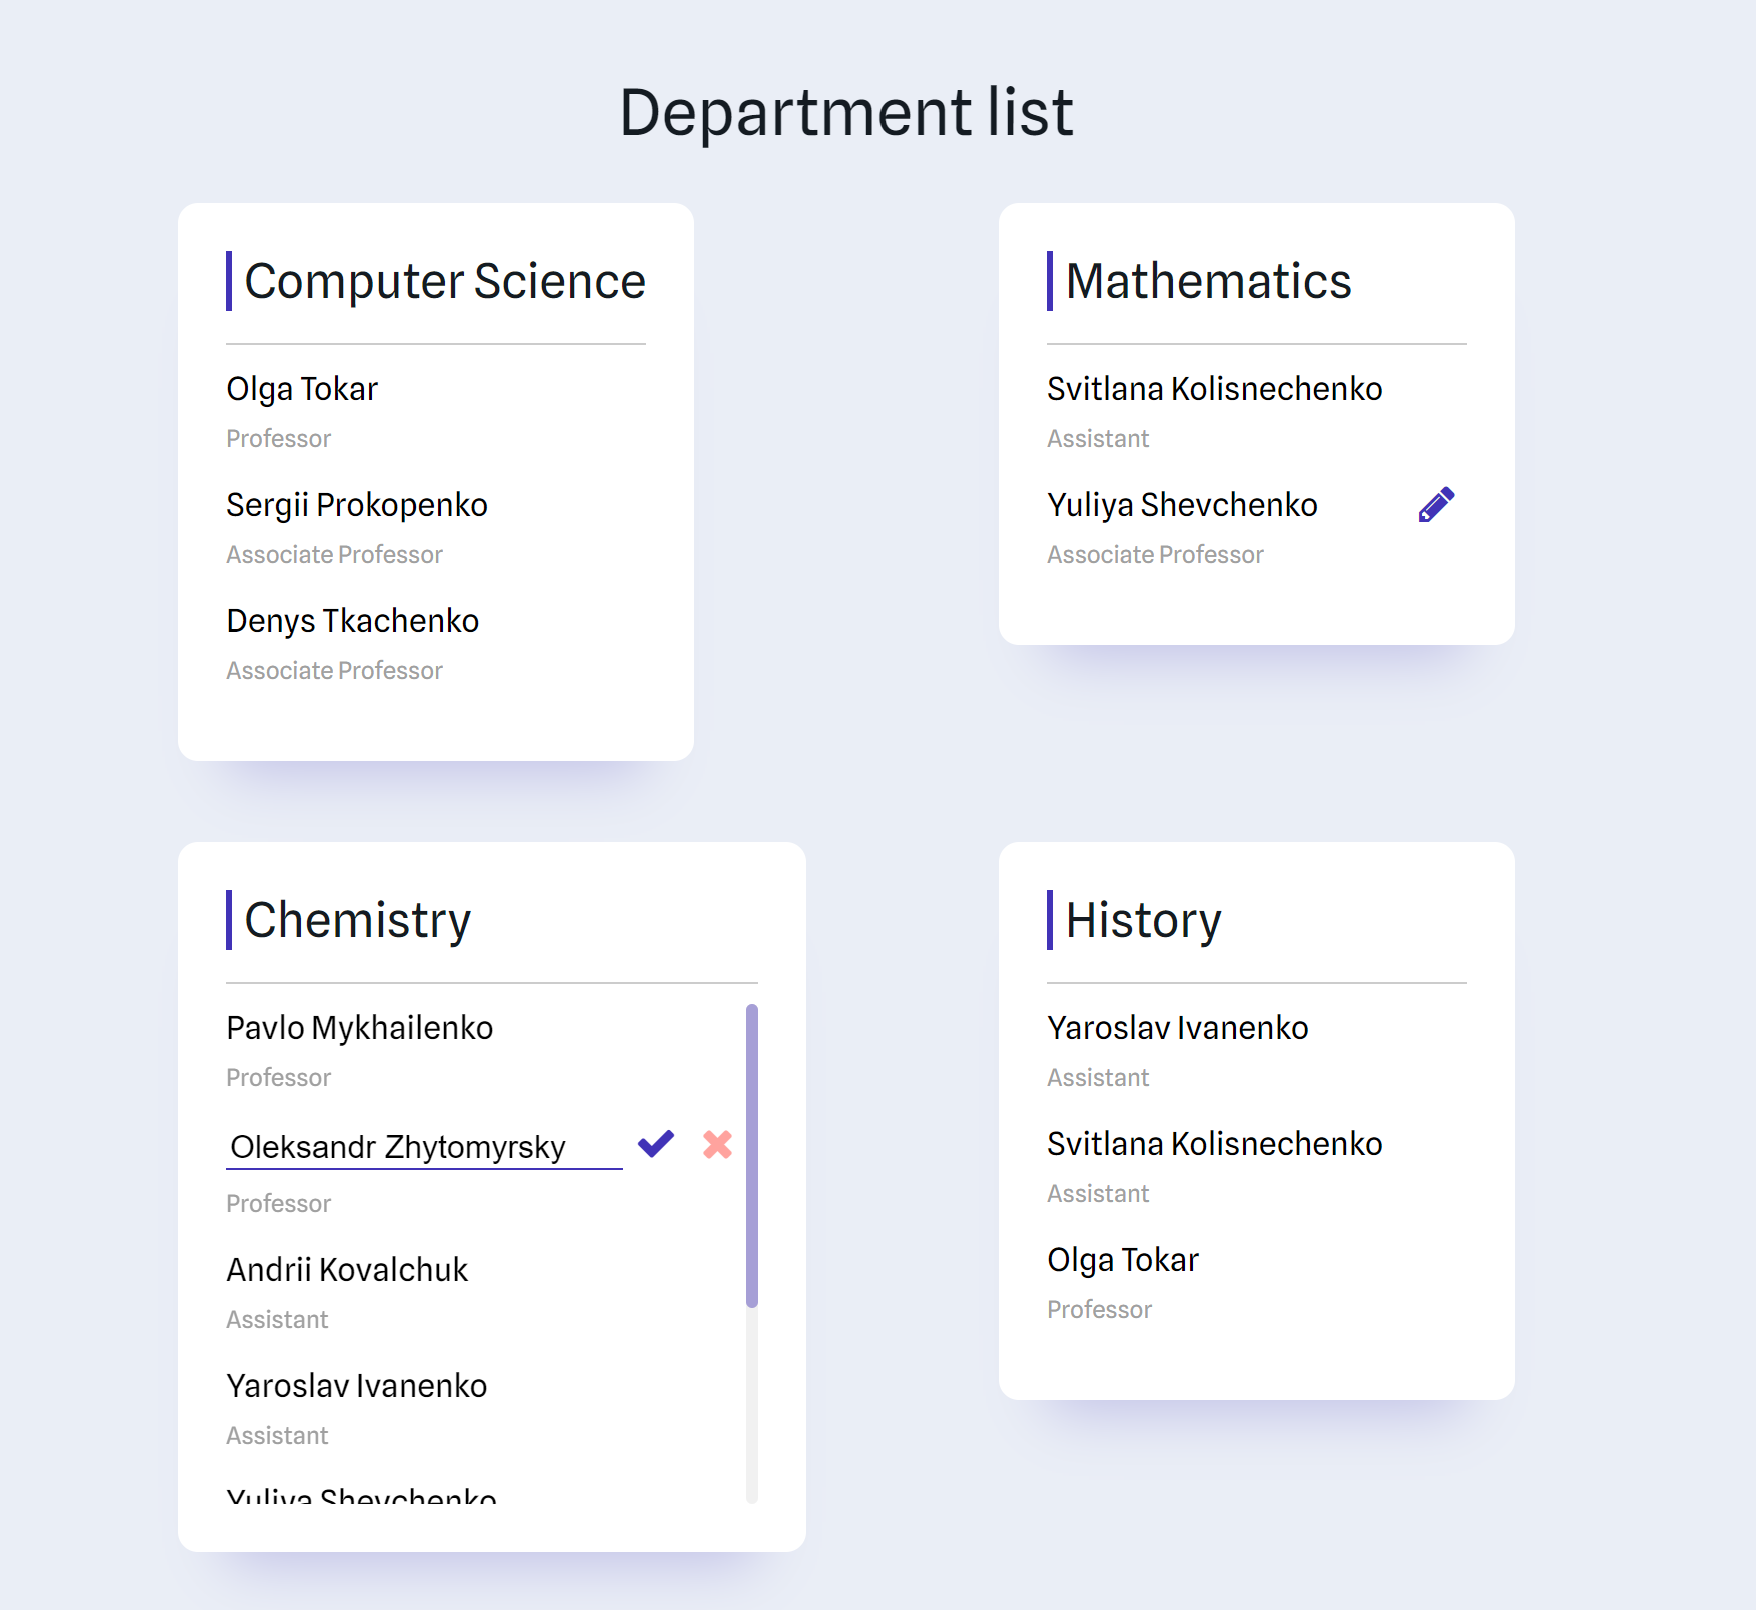
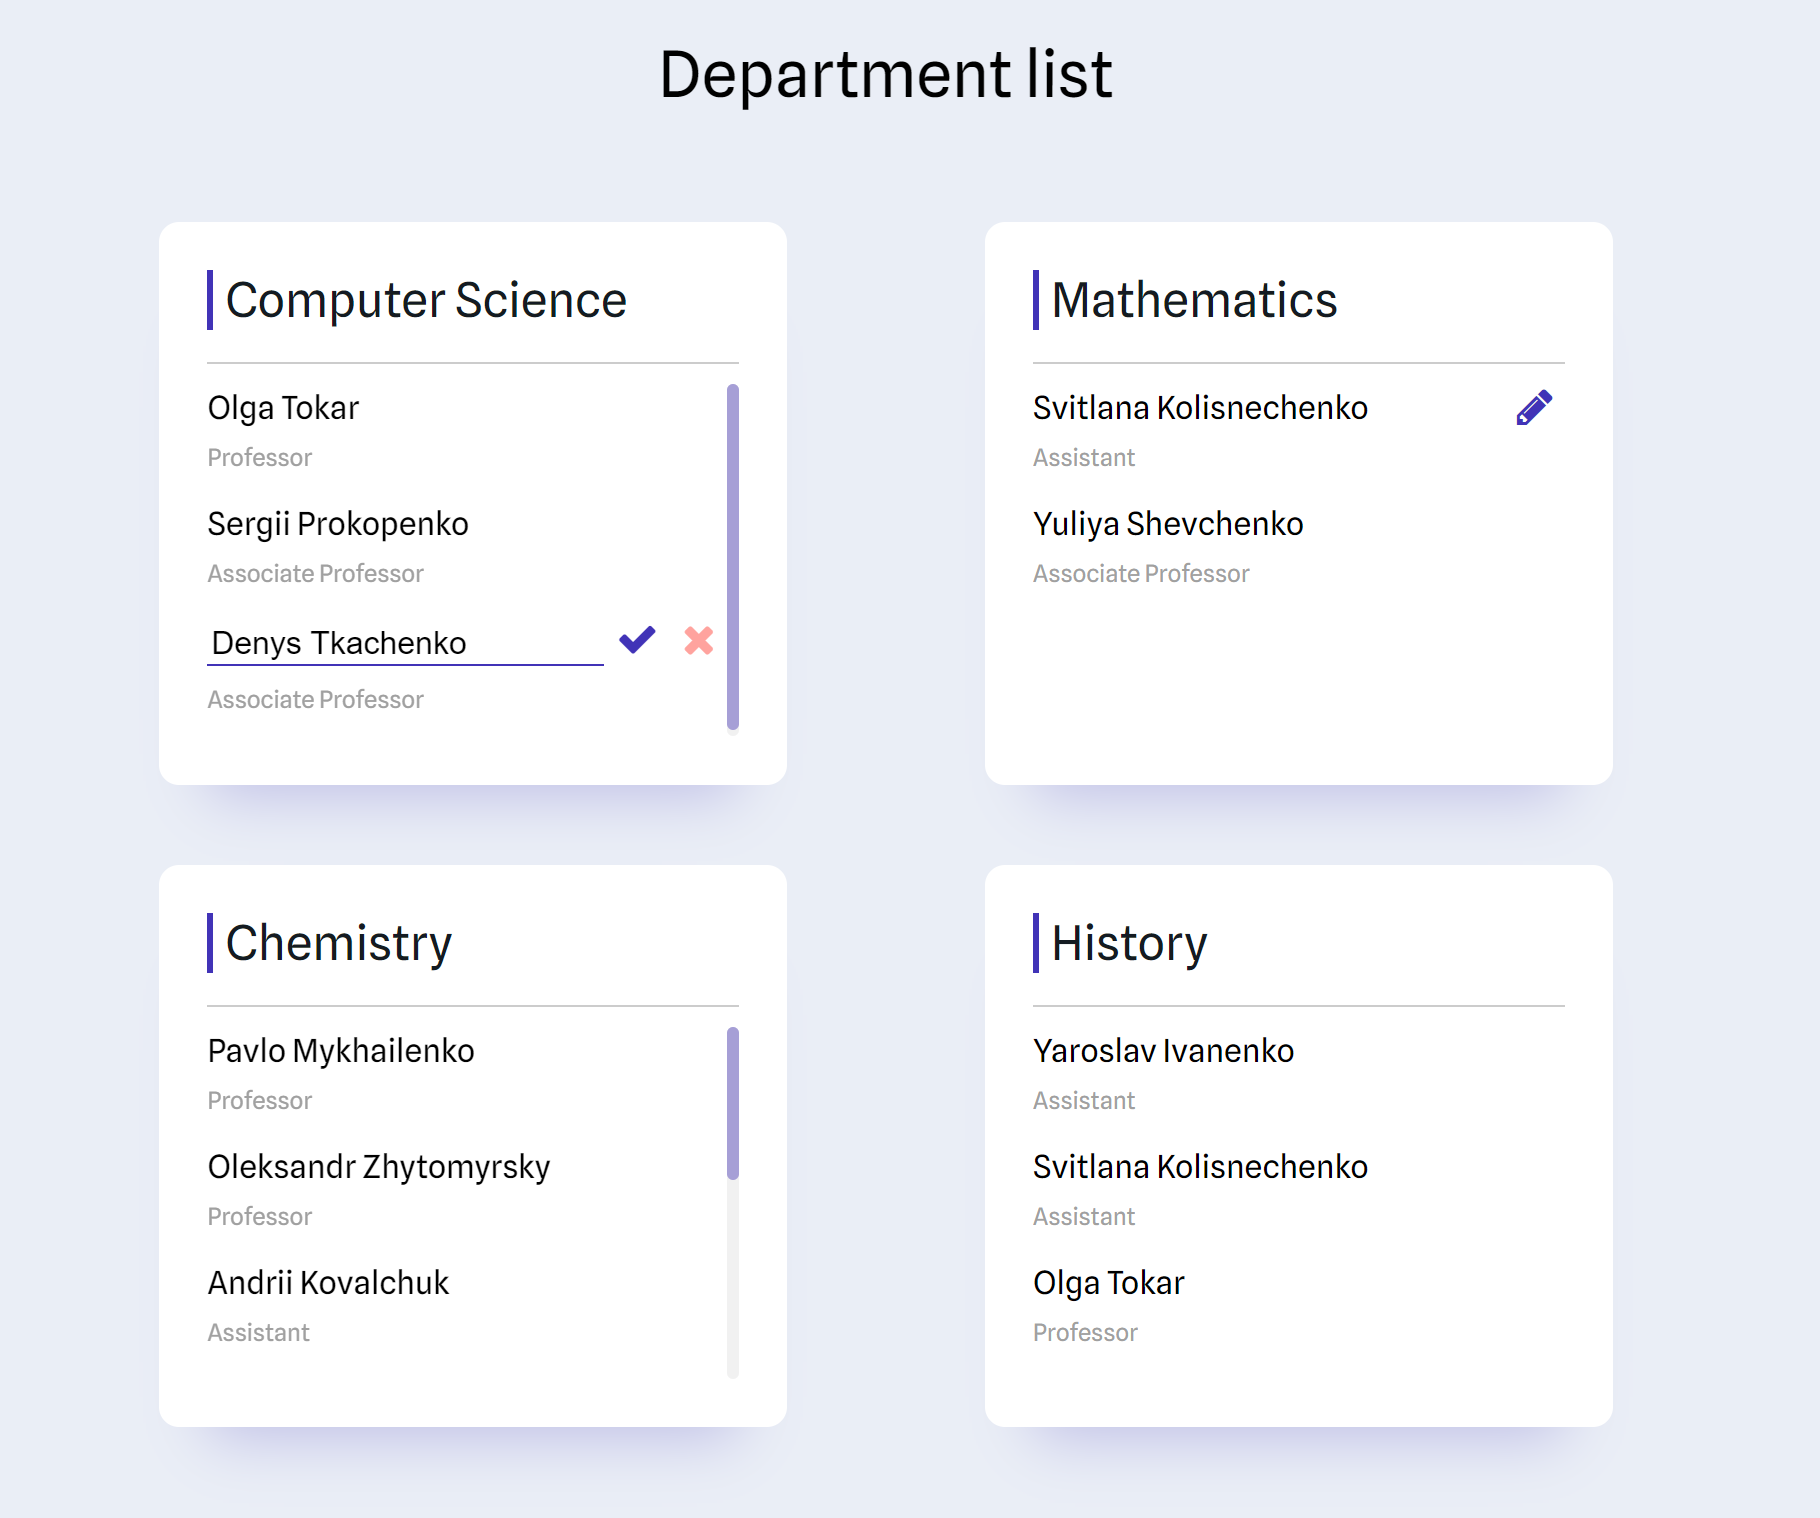
Error message.

diff --git a/client/src/components/departmentCardList/index.jsx b/client/src/components/departmentCardList/index.jsx
@@ -3,6 +3,7 @@ import './index.css'
 import axios from 'axios';
 import {DepartmentCard} from '../departmentCard';
 import {LoadingSpinner} from "../loadingSpinner";
+import {ErrorStatus} from "../errorStatus";
 
 export const DepartmentCardList = () => {
     const [departments, setDepartments] = useState([]);
@@ -20,11 +21,19 @@ export const DepartmentCardList = () => {
                 setIsLoading(true);
                 setErrorMessage(error.message);
         });
-    }, [])
+    }, []);
 
     useEffect(() => {
         fetchData();
     }, [fetchData]);
+
+    useEffect(() => {
+        const timer = setTimeout(function () {
+            setErrorMessage('');
+        }, 4000);
+
+        return () => clearTimeout(timer);
+    }, [errorMessage]);
 
     const updateLectorName = (lectorId, newName) => {
         setIsLoading(true);
@@ -41,10 +50,10 @@ export const DepartmentCardList = () => {
     return (
         <div className="department-container">
             {isLoading && <LoadingSpinner />}
-            {errorMessage && <div className="error">{errorMessage}</div>}
+            {errorMessage && <ErrorStatus message={errorMessage} />}
             {departments.map(department => (
                 <DepartmentCard
-                    key={department.id + Math.random()}
+                    key={department.id}
                     department={department}
                     updateLectorName={updateLectorName} />
             ))}

diff --git a/client/src/components/lector/index.jsx b/client/src/components/lector/index.jsx
@@ -32,7 +32,7 @@ export const Lector = ({ lector, updateLectorName }) => {
                         </>
                     ) : (
                         <div className="name">
-                            {name}
+                            {lector.name}
                             <div>
                             {onMouse ? (
                                 <button className="button" onClick={() => setIsEditing(true)}>

diff --git a/client/src/components/departmentCard/index.css b/client/src/components/departmentCard/index.css
@@ -1,7 +1,7 @@
 .department-card {
     border-radius: 10px;
     box-shadow: 0 30px 30px -25px rgba(65, 51, 183, 0.25);
-    max-width: 320px;
+    width: 266px;
     background-color: #ffff;
     padding: 1.5rem;
 }
@@ -22,7 +22,7 @@
 }
 
 .list {
-    max-height: 250px;
+    height: 176px;
     overflow: auto;
 }
 

diff --git a/client/src/components/errorStatus/index.jsx b/client/src/components/errorStatus/index.jsx
@@ -1,0 +1,12 @@
+import React from "react";
+import "./index.css";
+
+export const ErrorStatus = ({message}) => {
+    return (
+        <div className="error-container">
+            <div className="error">
+                Error: {message}
+            </div>
+        </div>
+    );
+}

diff --git a/client/src/components/departmentCardList/index.css b/client/src/components/departmentCardList/index.css
@@ -6,5 +6,11 @@
     justify-content: space-between;
     gap: 2.5rem;
     width: 90%;
-    max-width: 1000px;
+    max-width: 800px;
+}
+
+@media screen and (max-width: 926px) {
+    .department-container {
+        justify-content: center;
+    }
 }

diff --git a/client/src/components/errorStatus/index.css b/client/src/components/errorStatus/index.css
@@ -1,0 +1,10 @@
+.error-container {
+    position: fixed;
+    top: 16px;
+    right: 20px;
+    background: #FBC8BE;
+    border-radius: 4px;
+    padding: 10px 16px;
+    font-size: 16px;
+    color: #832d25;
+}

diff --git a/client/src/App.css b/client/src/App.css
@@ -1,7 +1,8 @@
 .app {
-    margin: 48px 10vh 0 10vh;
+    margin: 30px 10vh 0 10vh;
 }
 .main-title {
+    margin-bottom: 50px;
     text-align: center;
     font-weight: 400;
 }

diff --git a/client/src/components/lector/index.css b/client/src/components/lector/index.css
@@ -26,6 +26,7 @@
     background: none;
     border: none;
 }
+
 .button:hover {
     cursor: pointer;
 }
